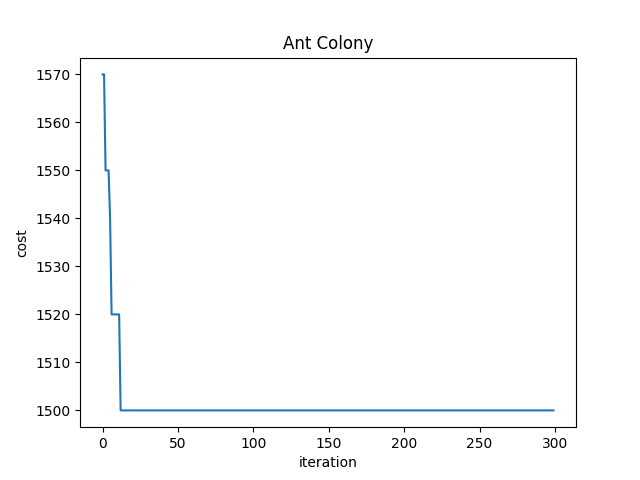
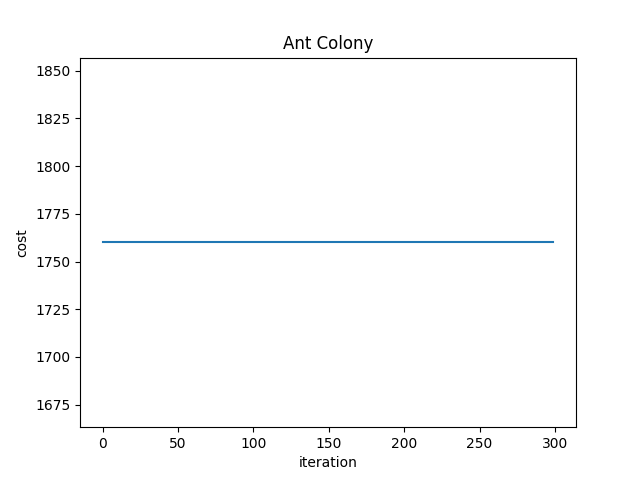
添加多种算法的复现

diff --git a/antColony.py b/antColony.py
@@ -7,7 +7,7 @@ import time
 SAVE_DATA = True
 
 class AntColony(object):
-    def __init__(self, distances, n_ants, n_best, n_iterations, decay, uav_num, filename='result', alpha=1, beta=1):
+    def __init__(self, distances, n_ants, n_best, n_iterations, decay, uav_num, filename='result', alpha=1, beta=1,max_time=0):
         """
         Args:
             distances (2D numpy.array): Square matrix of distances. Diagonal is assumed to be np.inf.
@@ -19,6 +19,7 @@ class AntColony(object):
             beta (int or float): exponent on distance, higher beta give distance more weight. Default=1
             uav_num(int): the number of the uav
             filename(str): save the data into csv file
+            max_time(int): per uav execute the maxmium number of the tasks
         Example:
             ant_colony = AntColony(german_distances, 100, 20, 2000, 0.95, alpha=1, beta=2)          
         """
@@ -33,8 +34,11 @@ class AntColony(object):
         self.alpha = alpha
         self.beta = beta
         self.uav_num = uav_num
-        self.uav_visited_time = np.zeros([1,self.uav_num])
-        self.uav_visited_max_time = 2
+        if max_time == 0 or max_time > self.uav_num:
+            self.uav_visited_max_time = self.uav_num
+        else:
+            self.uav_visited_max_time = max_time    
+        print(self.uav_visited_max_time)       
         # drawing
         self.draw_x = np.arange(n_iterations)
         self.draw_y = np.ones(n_iterations)
@@ -88,19 +92,30 @@ class AntColony(object):
         return total_dist
 
     def gen_all_paths(self):
+        """generate paths for all ants
+        """
         all_paths = []
         for i in range(self.n_ants):
+            start = np.random.randint(self.uav_num)
             path = self.gen_path(0)
+            # path = self.gen_path(start) # randomly generate the start point
             all_paths.append((path, self.gen_path_dist(path)))
         return all_paths
 
     def gen_path(self, start):
+        """generate one path
+        """
         path = []
         visited = set()
+        visited_task = set()
+        self.uav_visited_time = np.zeros([1,self.uav_num])
         visited.add(start)
+        self.uav_visited_time[0][start] += 1
         prev = start
         # for i in range(len(self.distances) - 1):
         while len(visited) < len(self.distances):  # all the nodes should be visited at least once
+        # while True:
+            # print('visited',visited)
             move = self.pick_move(self.pheromone[prev], self.distances[prev], visited)
             path.append((prev, move))
             prev = move
@@ -108,31 +123,38 @@ class AntColony(object):
                 visited.add(move)
             if move < self.uav_num:
                 self.uav_visited_time[0][move] += 1
-        path.append((prev, start)) # going back to where we started    
+
+            # if move not in visited_task and move >= self.uav_num: # Chinese version
+            #     visited_task.add(move)
+            # if len(visited_task) == len(self.distances)-self.uav_num:
+            #     break
+
+        path.append((prev, start)) # going back to where we startqed    
         return path
 
     def pick_move(self, pheromone, dist, visited):
         pheromone = np.copy(pheromone)
         for i in visited:
-            if i >= self.uav_num:
+            if i >= self.uav_num: # node i is the target
                 pheromone[i] = 0  # node i cannot be visited again
-            # elif i < self.uav_num:
-            #     if self.uav_visited_time[0][i] > self.uav_visited_max_time:
-            #         pheromone[i] = 0
+            elif i < self.uav_num:# node i is the uav
+                if self.uav_visited_time[0][i] >= self.uav_visited_max_time:
+                    pheromone[i] = 0
         # pheromone[list(visited)] = 0
         row = pheromone ** self.alpha * (( 1.0 / dist) ** self.beta)
         norm_row = (row / row.sum())
+        # print('norm_row',norm_row)
         move = np_choice(self.all_inds, 1, p=norm_row)[0]
         return move
 
     def drawing(self):
-        plt.title("Ant Colony")
+        plt.title("Result")
         plt.xlabel('iteration')
         plt.ylabel('cost')
         plt.plot(self.draw_x,self.draw_y)
         if SAVE_DATA:
-            plt.savefig('{}_fig.png'.format(self.filename))
-        plt.show()
+            plt.savefig('{}_fig.png'.format(self.filename),dpi=450)
+        # plt.show()
     
     def saveData(self):
         np.save('{}_x.npy'.format(self.filename),self.draw_x)

diff --git a/hungarian_others.py b/hungarian_others.py
@@ -10,6 +10,7 @@ import copy
 import time
 
 from matplotlib import pyplot as plt
+from numpy.core.fromnumeric import sort
 from costMatrix import getDistance,randomMatrix,loadMatrix,randomMap,loadMap
 
 class Hungarian():
@@ -225,6 +226,62 @@ class Hungarian():
             matrix = np.hstack((matrix,temp))
         return matrix
     
+    def methodYadaiah(self,matrix):
+        """ The split method proposed by Yadaiah
+        :param matrix: the input matrix
+        :return matrixs
+        """
+        matrix = np.array(matrix).transpose()
+        sum_row = matrix.sum(axis=1)
+        sum_col = matrix.sum(axis=0)
+        sort_row = sorted(enumerate(sum_row),key=lambda x:x[1])
+        sort_col = sorted(enumerate(sum_col),key=lambda x:x[1])
+        sub_matrix = []
+        temp_list = []
+        for i in range(matrix.shape[1]):
+            temp_list.append(sort_row[i][0])
+        temp_list.sort()
+        for item in temp_list:
+            sub_matrix.append(matrix[item])
+        
+        sub_matrix = np.array(sub_matrix)
+
+        subsub_matrix = []
+        temp_list_col = []
+        for i in range(matrix.shape[0]-matrix.shape[1]):
+            temp_list_col.append(sort_col[i][0])
+        temp_list_col.sort()
+
+        for i in range(matrix.shape[0]):
+            row_list = []
+            if i in temp_list:
+                continue
+            for j in range(matrix.shape[1]):
+                if j in temp_list_col:
+                    row_list.append(matrix[i][j])
+            subsub_matrix.append(row_list)
+        subsub_matrix = np.array(subsub_matrix)
+
+        print('temp_list',temp_list)
+        print('temp_list_col',temp_list_col)
+        np.save('sub_matrix.npy',sub_matrix)
+        np.save('subsub_matrix.npy',subsub_matrix)
+        print(sub_matrix,'\n',subsub_matrix)
+    
+    def methodBetts(self,matrix):
+        """ The copy and zero padding method proposed by Betts
+        :param matrix: the input matrix
+        :return matrixs
+        """
+        matrix = np.array(matrix).transpose()
+        matrix = np.column_stack((matrix,matrix))
+        m,n = matrix.shape
+        temp_zero = np.zeros([n-m,n])
+        matrix = np.row_stack((matrix,temp_zero))
+        np.save('betts_matrix',matrix)
+        print(matrix)
+
+    
     def drawMap(self,uav_x,uav_y,target_x,target_y):
         """
         draw the calculated result between the uavs and targets on the map.
@@ -315,6 +372,12 @@ class Hungarian():
         print('total cost: {}'.format(total_cost))
         print('total time:{}'.format(total_time))
         print('==============finish==============')
+    
+    def runYadaiah(self):
+        self.methodYadaiah(self.input_matrix)
+    
+    def runBetts(self):
+        self.methodBetts(self.input_matrix)
 
 if __name__ == '__main__':
     test = [
@@ -373,15 +436,26 @@ if __name__ == '__main__':
         [21,9,12,9,32,10,19,25,16,10]
     ]
 
+    # sub_matrix = np.load('sub_matrix.npy')
+    # subsub_matrix = np.load('subsub_matrix.npy')
+    betts_matrix = np.load('betts_matrix.npy')
     # matrix = loadMatrix(40,40,1)
     # matrix = generateMap(25,25)
     # uav_x,uav_y,target_x,target_y,matrix = loadMap()
-    matrix = test_unbalanced_ap3
-    sol_1 = Hungarian(matrix)
-    # print(sol.convertZeroMatrix())
-    sol_1.runPaddingZero()
+    # matrix = test_unbalanced_ap3
+    matrix = betts_matrix
+    # sol_1 = Hungarian(matrix)
+    # sol_1.runPaddingZero()
+
     sol_2 = Hungarian(matrix)
     sol_2.runQuazzafi()
+
+    # sol_3 = Hungarian(matrix)
+    # sol_3.runYadaiah()
+
+    # sol_4 = Hungarian(matrix)
+    # sol_4.runBetts()
+    
     # sol.drawMap(uav_x,uav_y,target_x,target_y)
 
     # test = [

diff --git a/example.py b/example.py
@@ -59,7 +59,7 @@ def printAllocation(path,cost_matrix,uav_num,uav_x=None,uav_y=None,target_x=None
     path = path[0]
     path.sort()
     if draw_map:
-        plt.title('result')
+        plt.title('Result')
         plt.xlabel('x')
         plt.ylabel('y')
         plt.xlim([1,110])
@@ -80,9 +80,9 @@ def printAllocation(path,cost_matrix,uav_num,uav_x=None,uav_y=None,target_x=None
                 plt.text(x2+1,y2+1,'target'+str(temp_j),fontsize=10)
                 # plt.arrow(x1,y1,x2-x1,y2-y1,width=1)
     print('总代价',cost)
-    plt.legend(loc='center left',bbox_to_anchor=(1,0.5))
+    # plt.legend(loc='center left',bbox_to_anchor=(1,0.5))
     plt.savefig('result_{}_ant.png'.format(len(cost_matrix)),dpi=450,bbox_inches='tight')
-    plt.show()
+    # plt.show()
 
 def getDistance(x1,y1,x2,y2):
     return math.sqrt((x1-x2)**2+(y1-y2)**2)
@@ -198,19 +198,26 @@ if __name__ == '__main__':
         [10,7,3,2]
     ]
 
+    test_unblanced_6= [
+        [120,70,90,100,70,90],
+        [80,90,60,80,60,60],
+        [70,170,120,110,140,90],
+        [150,140,60,70,60,100],
+        [40,100,70,60,100,90]
+    ]
     # test4 = randomMatrix(40,40)
     # print(test4)
     
-    n_ants = 100
-    n_best = 100
-    n_iterations = 300
+    n_ants = 45
+    n_best = 45
+    n_iterations = 200
     decay = 0.8
     alpha = 1
     beta = 3
     
     """定matrix，不做图
     """
-    matrix = test_unbalanced_ap2
+    matrix = test2
     uav_num = len(matrix)
     filename = 'uav_{}_ants_{}_ite_{}_decay_{}_alpha_{}_beta_{}'.format(uav_num,n_ants,n_iterations,\
         decay,alpha,beta)
@@ -218,10 +225,14 @@ if __name__ == '__main__':
 
     distances = generateDistances(matrix)
     ant_colony = AntColony(distances, n_ants, n_best, n_iterations, decay, uav_num, filename,alpha, beta)
-    shortest_path = ant_colony.run()
-    print ("shorted_path: {}".format(shortest_path))
-    printAllocation(shortest_path,matrix,uav_num,draw_map=False)
-
+    total_shortest_path = 9999
+    for i in range(1):
+        shortest_path = ant_colony.run()
+        if shortest_path[1] < total_shortest_path:
+            total_shortest_path = shortest_path[1]
+        print ("shorted_path: {}".format(shortest_path))
+        printAllocation(shortest_path,matrix,uav_num,draw_map=False)
+    print('last result:',total_shortest_path)
     """生成地图，对结果连线
     """
     # uav_x,uav_y,target_x,target_y,matrix = generateMap(20,20)

diff --git a/printMatrix.py b/printMatrix.py
@@ -1,0 +1,23 @@
+import numpy as np
+
+def printMatrix(matrix):
+    matrix = np.array(matrix)
+    for row in matrix:
+        for i,item in enumerate(row):
+            if i < len(row)-1:
+                print('%d' %item,end='&')
+            else:
+                print('%d' %item,end=r'\\')
+        print('')
+
+
+
+test_unbalanced_ap3 = [
+    [10,2,14,9,6,7,21,32,18,11],
+    [7,12,9,3,5,6,9,16,54,12],
+    [4,8,6,12,21,9,21,14,45,13],
+    [21,9,12,9,32,10,19,25,16,10],
+    [10,12,30,15,12,17,30,12,12,9],
+    [15,7,34,17,7,16,14,17,9,5]
+]
+printMatrix(test_unbalanced_ap3)

diff --git a/test.py b/test.py
@@ -1,4 +1,6 @@
 import numpy as np
 
-test = np.zeros((1,3))
-print(test[0])
+a = np.array([1,2,3,4,5])
+b = np.array([1,2,6])
+result = [False for c in b if c not in a]
+print(result)

diff --git a/README.md b/README.md
@@ -1,2 +1,18 @@
 # AssignmentProblem_with_Hungarian_and_AntColonyAlgorithm
 Using Hungarian Algorithm and Ant Colony Algorithm to deal with balanced (m==n) and unbalanced (m&lt;n) assignment problems.
+
+# 复现Yadaiah的步骤：
+1) 先注释掉 `sub_matrix = np.load('sub_matrix.npy')
+    subsub_matrix = np.load('subsub_matrix.npy')`
+    这两句话，然后用以下函数求得两个子矩阵：
+    ```
+    sol_3 = Hungarian(matrix)
+    sol_3.runYadaiah()
+    ```
+
+2) 两个子矩阵会自动保存成.npy文件，这时候就可以打开np.load来分别对两个nxn的子矩阵使用匈牙利算法。注意，这里得到的结果，需要用输出的temp_list和temp_list_col来与原来的矩阵对应。
+
+3)对应方法：temp_list中的数代表第一个子矩阵(sub_matrix)所选的行，
+            temp_list_col中的数代表第二个子矩阵(subsub_matrix)所选的列，行是第一次没有选择的剩下的行。
+
+4) 总cost是两次子矩阵的cost之和。
